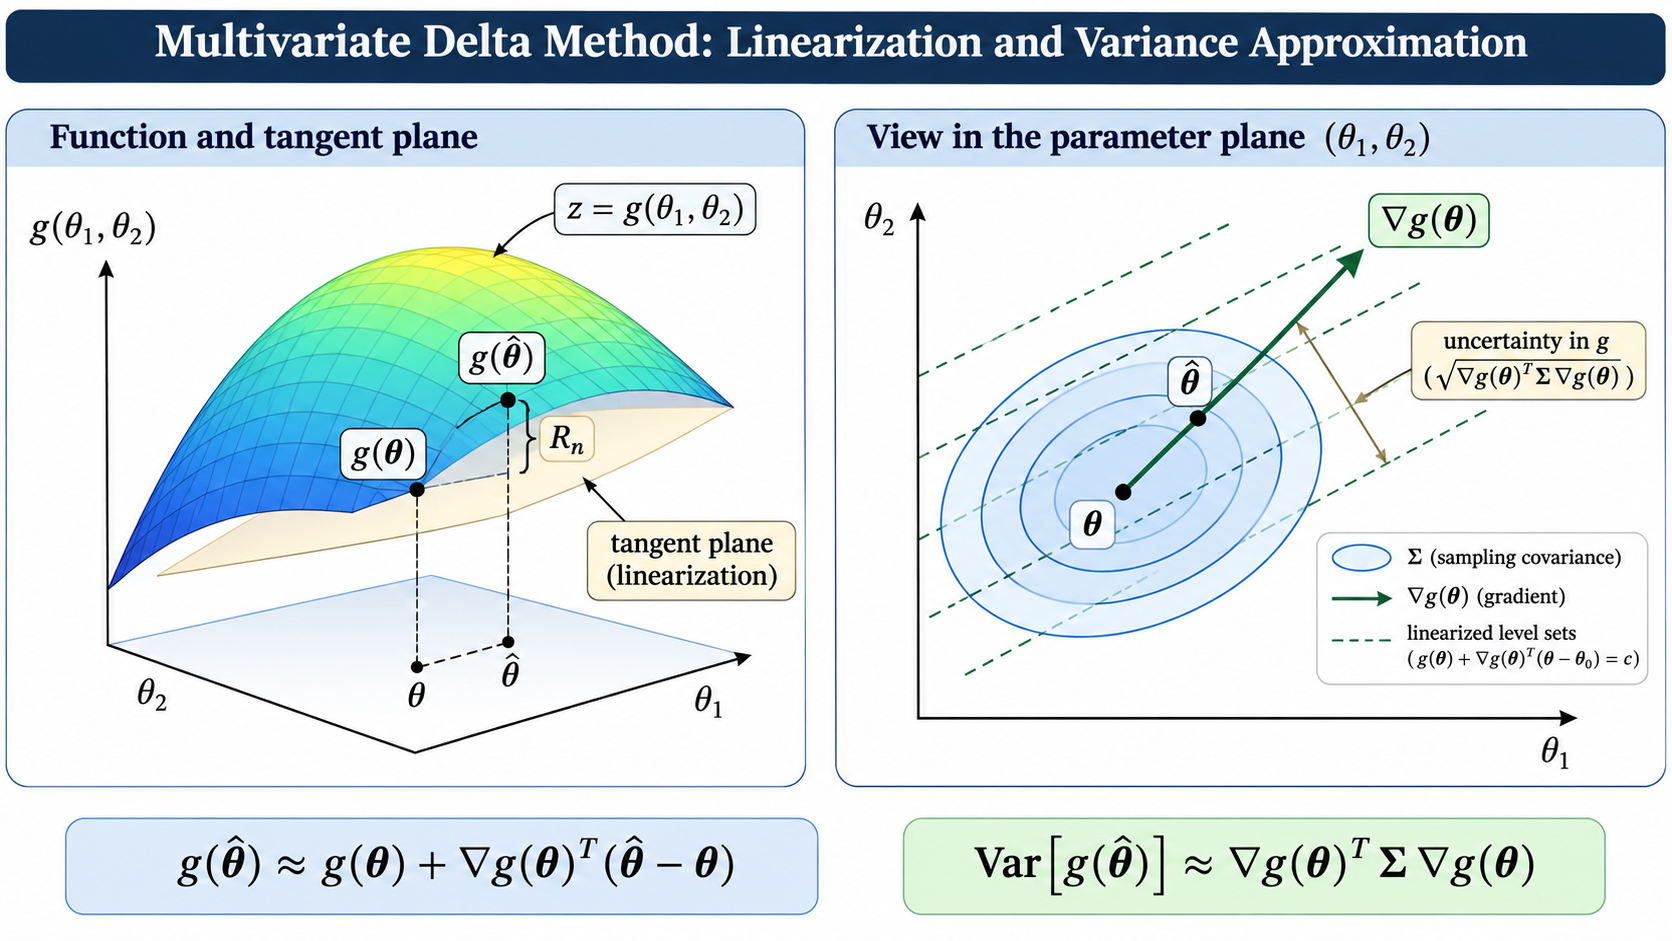
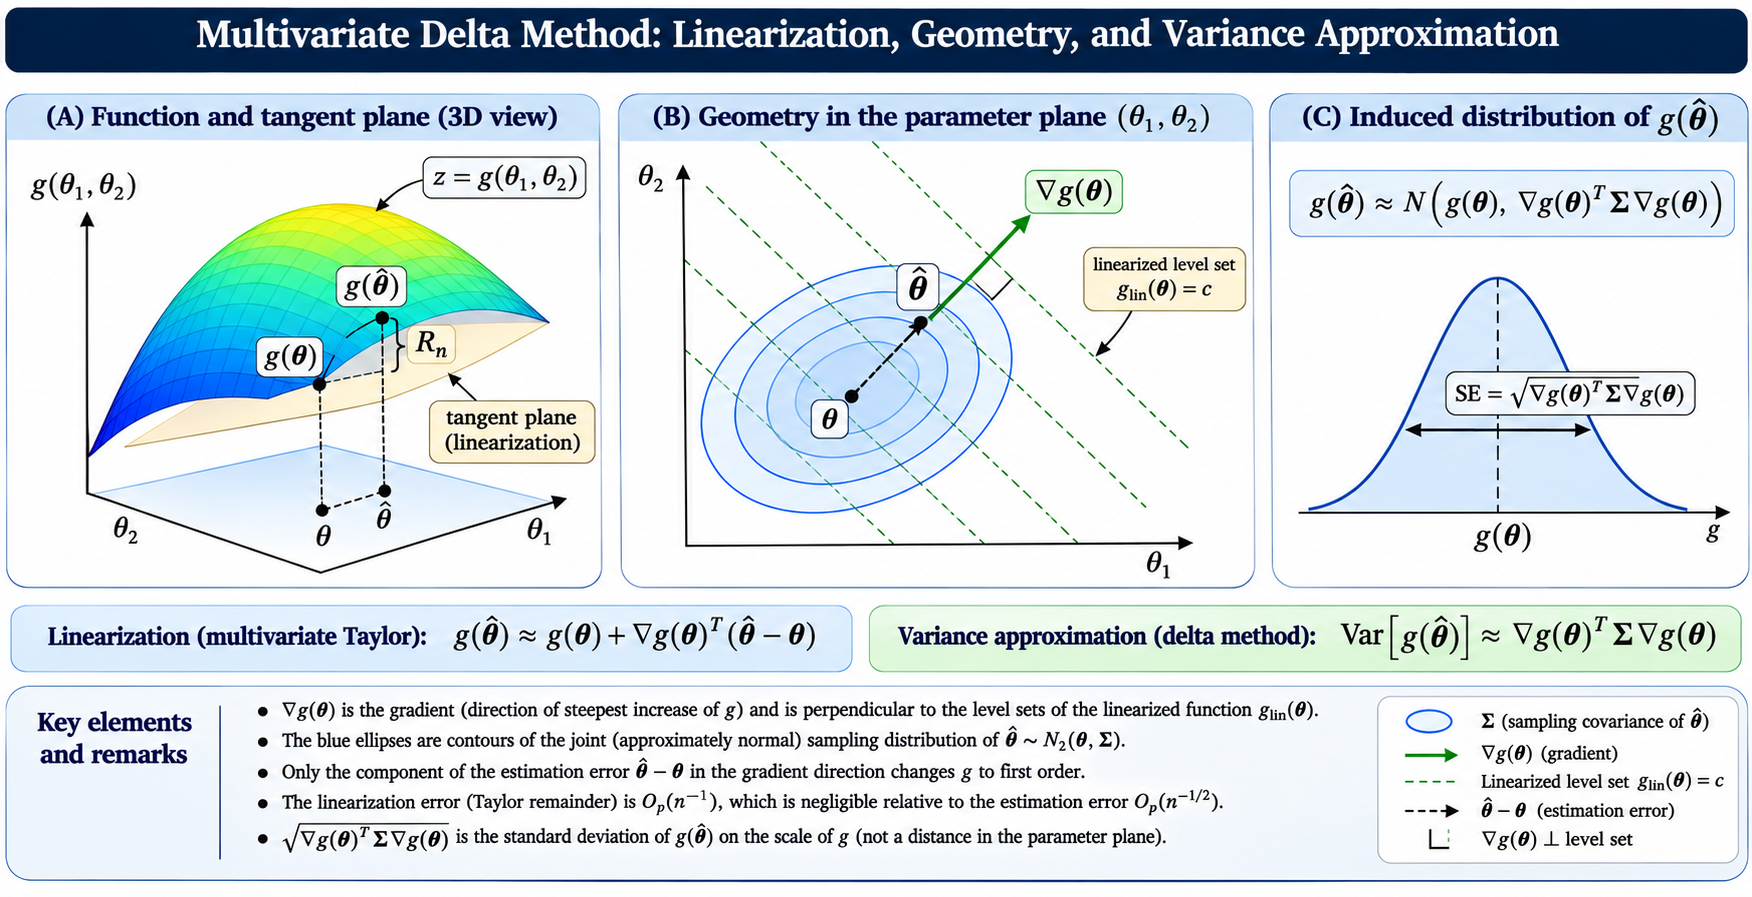
multivariatetailor2

diff --git a/docs/posts/DeltaMethod/index.html b/docs/posts/DeltaMethod/index.html
@@ -383,7 +383,7 @@ g'(p)=\frac1p+\frac1{1-p}=\frac1{p(1-p)}.
 </section>
 <section id="multivariate-delta-method" class="level1">
 <h1>Multivariate delta method</h1>
-<p>Figure <a href="#fig-multivariate-delta" class="quarto-xref">Figure&nbsp;1</a> illustrates the geometric idea for two parameters: the nonlinear surface <span class="math inline">\(z=g(\theta_1,\theta_2)\)</span> is replaced locally by its tangent plane at the true parameter vector. The gradient gives the direction and sensitivity of this local change. The covariance matrix determines the uncertainty ellipse of the estimators; projecting that uncertainty through the gradient gives the approximate variance of the transformed estimator.</p>
+<p><a href="#fig-multivariate-delta" class="quarto-xref">Figure&nbsp;1</a> illustrates the geometric idea for two parameters: the nonlinear surface <span class="math inline">\(z=g(\theta_1,\theta_2)\)</span> is replaced locally by its tangent plane at the true parameter vector. The gradient gives the direction and sensitivity of this local change. The covariance matrix determines the uncertainty ellipse of the estimators; projecting that uncertainty through the gradient gives the approximate variance of the transformed estimator.</p>
 <div id="fig-multivariate-delta" class="quarto-float quarto-figure quarto-figure-center anchored" alt="Two-panel illustration showing a nonlinear surface with a tangent plane and, in parameter space, a covariance ellipse with a gradient direction.">
 <figure class="quarto-float quarto-float-fig figure">
 <figcaption class="quarto-float-caption-top quarto-float-caption quarto-float-fig" id="fig-multivariate-delta-caption-0ceaefa1-69ba-4598-a22c-09a6ac19f8ca">

diff --git a/docs/blog.html b/docs/blog.html
@@ -275,7 +275,7 @@ window.Quarto = {
     </div>
 </div>
 <div class="list quarto-listing-default">
-<div class="quarto-post image-right" data-index="0" data-categories="YW5hbHlzaXM=" data-listing-date-sort="1795042800000" data-listing-file-modified-sort="1795078706943" data-listing-date-modified-sort="NaN" data-listing-reading-time-sort="7" data-listing-word-count-sort="1220">
+<div class="quarto-post image-right" data-index="0" data-categories="YW5hbHlzaXM=" data-listing-date-sort="1795042800000" data-listing-file-modified-sort="1795081508731" data-listing-date-modified-sort="NaN" data-listing-reading-time-sort="7" data-listing-word-count-sort="1219">
 <div class="body">
 <h3 class="no-anchor listing-title">
 <a href="./posts/DeltaMethod/index.html" class="no-external">The Delta Method: Linearization and the Propagation of Uncertainty</a>
